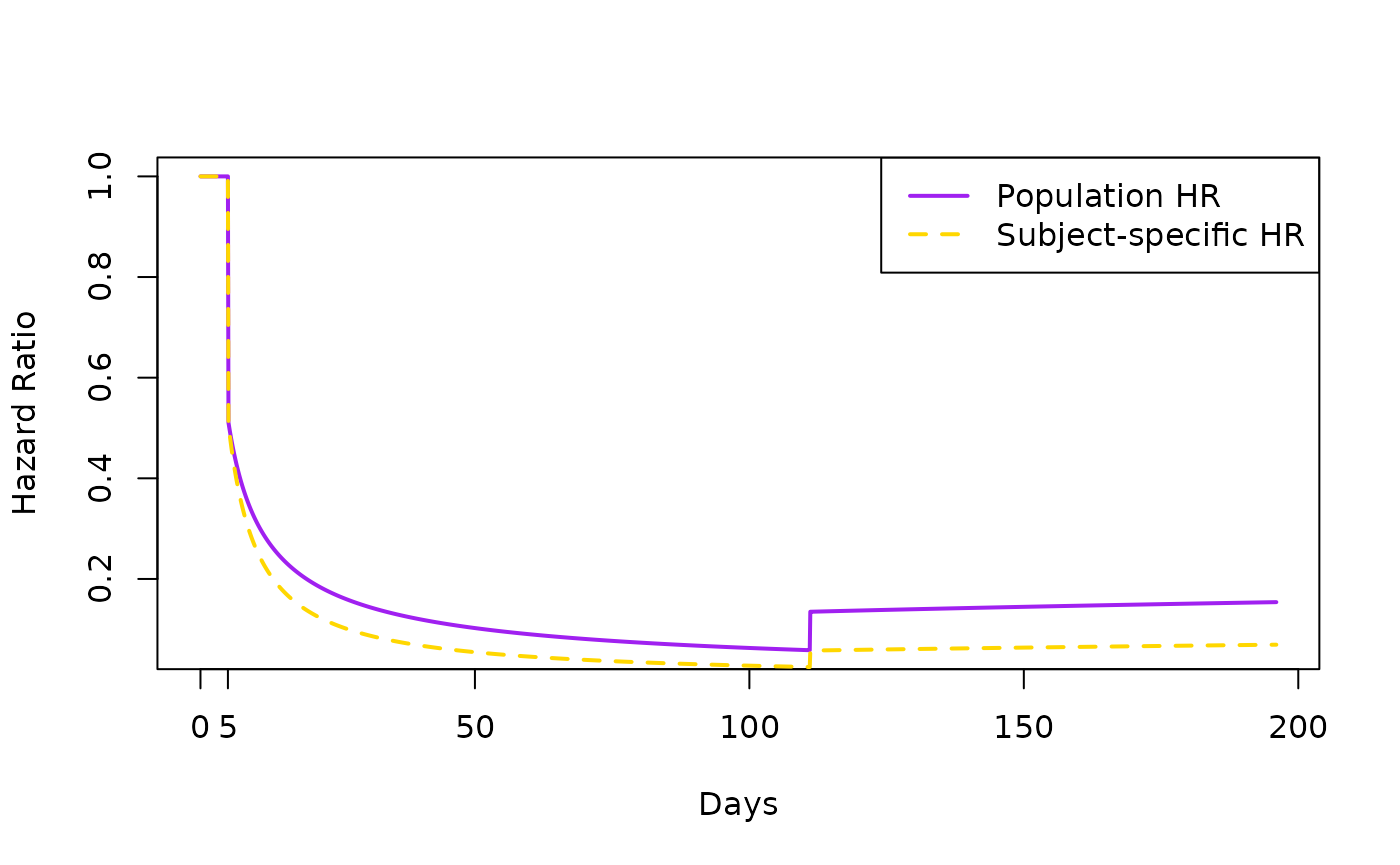
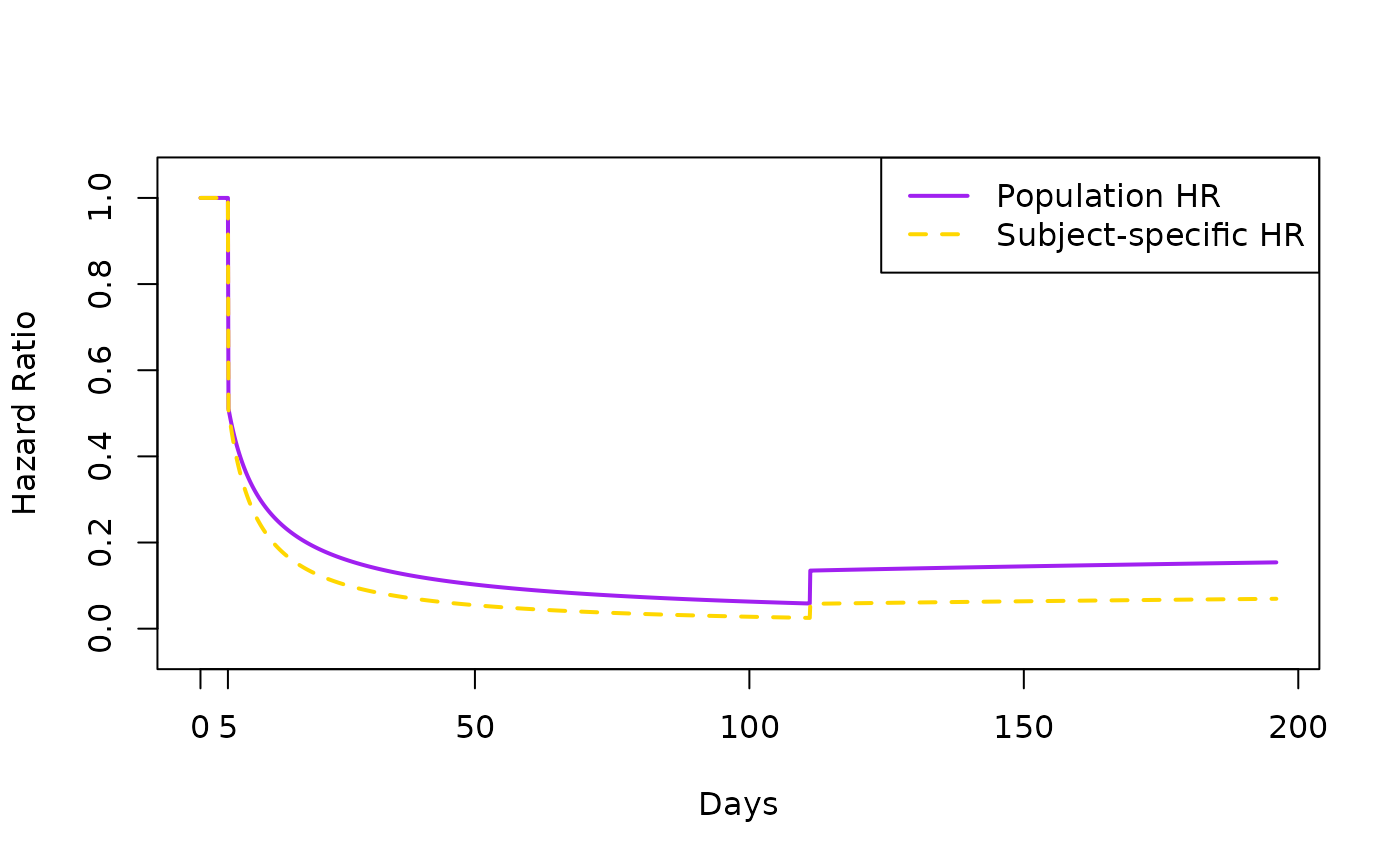
Deploying to gh-pages from @ swihart/mpw@d77f3eb011d26254b463e0a16dab83c2ee363b18 🚀

diff --git a/articles/alpha.html b/articles/alpha.html
@@ -83,6 +83,17 @@ Positive Stable Frailty density:</p>
 <ul>
 <li><math display="inline" xmlns="http://www.w3.org/1998/Math/MathML"><semantics><mrow><msub><mi>f</mi><msub><mi>u</mi><mi>i</mi></msub></msub><mrow><mo stretchy="true" form="prefix">(</mo><msub><mi>u</mi><mi>i</mi></msub><mo stretchy="false" form="prefix">|</mo><mi>α</mi><mo stretchy="true" form="postfix">)</mo></mrow><mo>=</mo><mo>−</mo><mfrac><mn>1</mn><mrow><mi>π</mi><msub><mi>u</mi><mi>i</mi></msub></mrow></mfrac><msubsup><mo>∑</mo><mrow><mi>k</mi><mo>=</mo><mn>1</mn></mrow><mi>∞</mi></msubsup><mfrac><mrow><mi>Γ</mi><mrow><mo stretchy="true" form="prefix">(</mo><mi>k</mi><mi>α</mi><mo>+</mo><mn>1</mn><mo stretchy="true" form="postfix">)</mo></mrow></mrow><mrow><mi>k</mi><mi>!</mi></mrow></mfrac><msup><mrow><mo stretchy="true" form="prefix">(</mo><mo>−</mo><msubsup><mi>u</mi><mi>i</mi><mrow><mo>−</mo><mi>α</mi></mrow></msubsup><mo stretchy="true" form="postfix">)</mo></mrow><mi>k</mi></msup><mo>sin</mo><mrow><mo stretchy="true" form="prefix">(</mo><mi>α</mi><mi>k</mi><mi>π</mi><mo stretchy="true" form="postfix">)</mo></mrow></mrow><annotation encoding="application/x-tex">f_{u_{i}}(u_{i} | \alpha) =  - \frac{1}{\pi u_{i}}  \sum_{k=1}^\infty \frac{\Gamma(k \alpha +1)}{k!}  (-u_{i}^{-\alpha})^k \sin{(\alpha k \pi)}</annotation></semantics></math></li>
 </ul>
+<p>We analyze data that looks similar to that of Figure 1 Thomas et al
+(2021):</p>
+<blockquote>
+<p>Thomas, S. J., E. D. Moreira Jr, N. Kitchin, J. Absalon, A. Gurtman,
+S. Lockhart, J. L. Perez, G. P ́erez Marc, F. P. Polack, C. Zerbini, et
+al. (2021). Safety and efficacy of the bnt162b2 mrna covid-19 vaccine
+through 6 months. New England Journal of Medicine 385(19),
+1761–1773.</p>
+</blockquote>
+<p>We plot the data points, color-code the groups, and just connect the
+dots with interpolated, dashed lines.</p>
 <div class="sourceCode" id="cb1"><pre class="downlit sourceCode r">
 <code class="sourceCode R"><span><span class="kw"><a href="https://rdrr.io/r/base/library.html" class="external-link">library</a></span><span class="op">(</span><span class="va"><a href="https://swihart.github.io/mpw/">mpw</a></span><span class="op">)</span></span>
 <span><span class="co">## This data resembles that in Thomas et al</span></span>
@@ -92,9 +103,9 @@ Positive Stable Frailty density:</p>
 <span></span>
 <span><span class="co">## plot the data points, </span></span>
 <span><span class="co">## with interpolated lines</span></span>
-<span><span class="fu"><a href="https://rdrr.io/r/graphics/plot.default.html" class="external-link">plot</a></span>  <span class="op">(</span><span class="va">time</span>, <span class="va">F0</span>, type<span class="op">=</span><span class="st">"l"</span>, col<span class="op">=</span><span class="st">"black"</span>, xlab<span class="op">=</span><span class="st">"Days"</span>, ylab<span class="op">=</span><span class="st">"CDF"</span><span class="op">)</span></span>
+<span><span class="fu"><a href="https://rdrr.io/r/graphics/plot.default.html" class="external-link">plot</a></span>  <span class="op">(</span><span class="va">time</span>, <span class="va">F0</span>, type<span class="op">=</span><span class="st">"l"</span>, col<span class="op">=</span><span class="st">"black"</span>, xlab<span class="op">=</span><span class="st">"Days"</span>, ylab<span class="op">=</span><span class="st">"CDF"</span>, lty<span class="op">=</span><span class="fl">2</span><span class="op">)</span></span>
 <span><span class="fu"><a href="https://rdrr.io/r/graphics/points.html" class="external-link">points</a></span><span class="op">(</span><span class="va">time</span>, <span class="va">F0</span>, col<span class="op">=</span><span class="st">"black"</span>, pch<span class="op">=</span><span class="fl">15</span><span class="op">)</span></span>
-<span><span class="fu"><a href="https://rdrr.io/r/graphics/lines.html" class="external-link">lines</a></span> <span class="op">(</span><span class="va">time</span>, <span class="va">F1</span>, col<span class="op">=</span><span class="st">"blue"</span><span class="op">)</span></span>
+<span><span class="fu"><a href="https://rdrr.io/r/graphics/lines.html" class="external-link">lines</a></span> <span class="op">(</span><span class="va">time</span>, <span class="va">F1</span>, col<span class="op">=</span><span class="st">"blue"</span>, lty<span class="op">=</span><span class="fl">2</span><span class="op">)</span></span>
 <span><span class="fu"><a href="https://rdrr.io/r/graphics/points.html" class="external-link">points</a></span><span class="op">(</span><span class="va">time</span>, <span class="va">F1</span>, col<span class="op">=</span><span class="st">"blue"</span>, pch<span class="op">=</span><span class="fl">16</span><span class="op">)</span></span>
 <span><span class="fu"><a href="https://rdrr.io/r/graphics/legend.html" class="external-link">legend</a></span><span class="op">(</span><span class="st">"topleft"</span>, <span class="fu"><a href="https://rdrr.io/r/base/c.html" class="external-link">c</a></span><span class="op">(</span><span class="st">"Placebo"</span>, <span class="st">"Vaccine"</span><span class="op">)</span>,</span>
 <span>       col<span class="op">=</span><span class="fu"><a href="https://rdrr.io/r/base/c.html" class="external-link">c</a></span><span class="op">(</span><span class="st">"black"</span>,<span class="st">"blue"</span><span class="op">)</span>,</span>
@@ -103,10 +114,20 @@ Positive Stable Frailty density:</p>
 <span><span class="op">)</span></span></code></pre></div>
 <p><img src="alpha_files/figure-html/data-1.png" width="700"></p>
 <p>Set the <code>h_parm</code> and <code>frailty</code> distribution for
-this example.</p>
+this example. Beware that H_PARM has different bounds depending on what
+value of FRAILTY is selected.</p>
 <div class="sourceCode" id="cb2"><pre class="downlit sourceCode r">
 <code class="sourceCode R"><span><span class="va">H_PARM</span> <span class="op">&lt;-</span> <span class="fl">0.72</span></span>
 <span><span class="va">FRAILTY</span> <span class="op">&lt;-</span> <span class="st">"PS"</span></span></code></pre></div>
+<p>We first consider two knots which will allow us to model each curve
+with three pieces. We set the first piece of each group to be equal so
+we can get an HR of 1 (more in subsequent sections). This first piece
+can be specified to be over a short time range where both groups would
+be considered equal due to the <em>ramp-up time</em> of a vaccine. Below
+we set the ramp-up time to end 5 days after first dose, the second piece
+to go from then to 90 days after second dose, and the third piece from
+then until the end of the study. We do this by specifying two knot
+values, as below:</p>
 <div class="section level3">
 <h3 id="two-knots">Two knots<a class="anchor" aria-label="anchor" href="#two-knots"></a>
 </h3>
@@ -209,7 +230,11 @@ same for both groups (i.e. <em>ramp-up time</em>).</p>
 do a quick check of the fit. We put vertical dashed lines in the plot to
 denote knot placement.</p>
 <div class="sourceCode" id="cb6"><pre class="downlit sourceCode r">
-<code class="sourceCode R"><span><span class="va">time.dist</span> <span class="op">&lt;-</span> <span class="fu"><a href="https://rdrr.io/r/base/seq.html" class="external-link">seq</a></span><span class="op">(</span><span class="fu"><a href="https://rdrr.io/r/base/Extremes.html" class="external-link">min</a></span><span class="op">(</span><span class="fu"><a href="https://rdrr.io/r/base/c.html" class="external-link">c</a></span><span class="op">(</span><span class="va">time</span>, <span class="va">tvec.in</span><span class="op">)</span><span class="op">)</span>, <span class="fu"><a href="https://rdrr.io/r/base/Extremes.html" class="external-link">max</a></span><span class="op">(</span><span class="fu"><a href="https://rdrr.io/r/base/c.html" class="external-link">c</a></span><span class="op">(</span><span class="va">time</span>, <span class="va">tvec.in</span><span class="op">)</span><span class="op">)</span>, <span class="fl">0.1</span><span class="op">)</span></span>
+<code class="sourceCode R"><span><span class="va">time.dist</span> <span class="op">&lt;-</span> <span class="fu"><a href="https://rdrr.io/r/base/sort.html" class="external-link">sort</a></span><span class="op">(</span><span class="fu"><a href="https://rdrr.io/r/base/c.html" class="external-link">c</a></span><span class="op">(</span><span class="fu"><a href="https://rdrr.io/r/base/seq.html" class="external-link">seq</a></span><span class="op">(</span><span class="fu"><a href="https://rdrr.io/r/base/Extremes.html" class="external-link">min</a></span><span class="op">(</span><span class="fu"><a href="https://rdrr.io/r/base/c.html" class="external-link">c</a></span><span class="op">(</span><span class="va">time</span>, <span class="va">tvec.in</span><span class="op">)</span><span class="op">)</span>, </span>
+<span>                        <span class="fu"><a href="https://rdrr.io/r/base/Extremes.html" class="external-link">max</a></span><span class="op">(</span><span class="fu"><a href="https://rdrr.io/r/base/c.html" class="external-link">c</a></span><span class="op">(</span><span class="va">time</span>, <span class="va">tvec.in</span><span class="op">)</span><span class="op">)</span>, <span class="fl">0.1</span><span class="op">)</span>,</span>
+<span>                    <span class="va">tvec.in</span><span class="op">)</span></span>
+<span>                  <span class="op">)</span></span>
+<span></span>
 <span><span class="va">plac.dist</span> <span class="op">&lt;-</span> <span class="fu"><a href="../reference/popavg_dist.html">popavg_dist</a></span><span class="op">(</span>      x <span class="op">=</span> <span class="va">time.dist</span>, </span>
 <span>                           knots <span class="op">=</span> <span class="va">tvec.in</span>,</span>
 <span>                           logk0 <span class="op">=</span> <span class="va">logk0p</span>,</span>
@@ -238,7 +263,9 @@ denote knot placement.</p>
 <span><span class="op">)</span></span>
 <span><span class="fu"><a href="https://rdrr.io/r/graphics/axis.html" class="external-link">axis</a></span><span class="op">(</span><span class="fl">1</span>, at<span class="op">=</span><span class="fu"><a href="https://rdrr.io/r/base/c.html" class="external-link">c</a></span><span class="op">(</span><span class="va">tvec.in</span><span class="op">[</span><span class="fl">1</span><span class="op">]</span><span class="op">)</span><span class="op">)</span></span></code></pre></div>
 <p><img src="alpha_files/figure-html/unnamed-chunk-4-1.png" width="700"></p>
-<p>Note from Days 0 to 5 the curves are the same.</p>
+<p>Note from Days 0 to 5 the curves are the same. Over this range the HR
+will be 1. Otherwise the fit looks okay – some points are below their
+line and some are above.</p>
 </div>
 <div class="section level4">
 <h4 id="plot-population-avg-hr">Plot population avg HR<a class="anchor" aria-label="anchor" href="#plot-population-avg-hr"></a>
@@ -269,7 +296,7 @@ adjust the time input so that the first element is just above 0.</p>
 <span>                         frailty <span class="op">=</span> <span class="va">FRAILTY</span><span class="op">)</span></span>
 <span></span>
 <span><span class="fu"><a href="https://rdrr.io/r/graphics/plot.default.html" class="external-link">plot</a></span>  <span class="op">(</span><span class="va">time.haz</span>, <span class="va">vacc.haz</span><span class="op">/</span><span class="va">plac.haz</span>, type<span class="op">=</span><span class="st">"l"</span>, col<span class="op">=</span><span class="st">"purple"</span>, xlab<span class="op">=</span><span class="st">"Days"</span>,</span>
-<span>       ylab<span class="op">=</span><span class="st">"Hazard Ratio"</span>, lwd<span class="op">=</span><span class="fl">2</span><span class="op">)</span></span>
+<span>       ylab<span class="op">=</span><span class="st">"Hazard Ratio"</span>, lwd<span class="op">=</span><span class="fl">2</span>, ylim<span class="op">=</span><span class="fu"><a href="https://rdrr.io/r/base/c.html" class="external-link">c</a></span><span class="op">(</span><span class="op">-</span><span class="fl">0.05</span>,<span class="fl">1.05</span><span class="op">)</span><span class="op">)</span></span>
 <span></span>
 <span><span class="fu"><a href="https://rdrr.io/r/graphics/abline.html" class="external-link">abline</a></span><span class="op">(</span>v<span class="op">=</span><span class="va">tvec.in</span>, lty<span class="op">=</span><span class="fl">2</span>, col<span class="op">=</span><span class="st">"grey"</span><span class="op">)</span></span>
 <span></span>
@@ -302,7 +329,7 @@ vaccine group and dividing them gives the subject-specific hazard ratio
 <span>                       delta_vec <span class="op">=</span> <span class="va">delta_vec_v</span><span class="op">)</span></span>
 <span></span>
 <span><span class="fu"><a href="https://rdrr.io/r/graphics/plot.default.html" class="external-link">plot</a></span>  <span class="op">(</span><span class="va">time.haz</span>, <span class="va">vacc.haz</span><span class="op">/</span><span class="va">plac.haz</span>, type<span class="op">=</span><span class="st">"l"</span>, col<span class="op">=</span><span class="st">"purple"</span>, xlab<span class="op">=</span><span class="st">"Days"</span>,</span>
-<span>       ylab<span class="op">=</span><span class="st">"Hazard Ratio"</span>, lwd<span class="op">=</span><span class="fl">2</span><span class="op">)</span></span>
+<span>       ylab<span class="op">=</span><span class="st">"Hazard Ratio"</span>, lwd<span class="op">=</span><span class="fl">2</span>, ylim<span class="op">=</span><span class="fu"><a href="https://rdrr.io/r/base/c.html" class="external-link">c</a></span><span class="op">(</span><span class="op">-</span><span class="fl">0.05</span>,<span class="fl">1.05</span><span class="op">)</span><span class="op">)</span></span>
 <span></span>
 <span><span class="fu"><a href="https://rdrr.io/r/graphics/axis.html" class="external-link">axis</a></span><span class="op">(</span><span class="fl">1</span>, at<span class="op">=</span><span class="fu"><a href="https://rdrr.io/r/base/c.html" class="external-link">c</a></span><span class="op">(</span><span class="va">tvec.in</span><span class="op">[</span><span class="fl">1</span><span class="op">]</span><span class="op">)</span><span class="op">)</span></span>
 <span></span>
@@ -430,7 +457,11 @@ same for both groups (i.e. <em>ramp-up time</em>).</p>
 do a quick check of the fit. We put vertical dashed lines in the plot to
 denote knot placement.</p>
 <div class="sourceCode" id="cb12"><pre class="downlit sourceCode r">
-<code class="sourceCode R"><span><span class="va">time.dist</span> <span class="op">&lt;-</span> <span class="fu"><a href="https://rdrr.io/r/base/seq.html" class="external-link">seq</a></span><span class="op">(</span><span class="fu"><a href="https://rdrr.io/r/base/Extremes.html" class="external-link">min</a></span><span class="op">(</span><span class="fu"><a href="https://rdrr.io/r/base/c.html" class="external-link">c</a></span><span class="op">(</span><span class="va">time</span>, <span class="va">tvec.in</span><span class="op">)</span><span class="op">)</span>, <span class="fu"><a href="https://rdrr.io/r/base/Extremes.html" class="external-link">max</a></span><span class="op">(</span><span class="fu"><a href="https://rdrr.io/r/base/c.html" class="external-link">c</a></span><span class="op">(</span><span class="va">time</span>, <span class="va">tvec.in</span><span class="op">)</span><span class="op">)</span>, <span class="fl">0.1</span><span class="op">)</span></span>
+<code class="sourceCode R"><span><span class="va">time.dist</span> <span class="op">&lt;-</span> <span class="fu"><a href="https://rdrr.io/r/base/sort.html" class="external-link">sort</a></span><span class="op">(</span><span class="fu"><a href="https://rdrr.io/r/base/c.html" class="external-link">c</a></span><span class="op">(</span><span class="fu"><a href="https://rdrr.io/r/base/seq.html" class="external-link">seq</a></span><span class="op">(</span><span class="fu"><a href="https://rdrr.io/r/base/Extremes.html" class="external-link">min</a></span><span class="op">(</span><span class="fu"><a href="https://rdrr.io/r/base/c.html" class="external-link">c</a></span><span class="op">(</span><span class="va">time</span>, <span class="va">tvec.in</span><span class="op">)</span><span class="op">)</span>, </span>
+<span>                        <span class="fu"><a href="https://rdrr.io/r/base/Extremes.html" class="external-link">max</a></span><span class="op">(</span><span class="fu"><a href="https://rdrr.io/r/base/c.html" class="external-link">c</a></span><span class="op">(</span><span class="va">time</span>, <span class="va">tvec.in</span><span class="op">)</span><span class="op">)</span>, <span class="fl">0.1</span><span class="op">)</span>,</span>
+<span>                    <span class="va">tvec.in</span><span class="op">)</span></span>
+<span>                  <span class="op">)</span></span>
+<span></span>
 <span><span class="va">plac.dist</span> <span class="op">&lt;-</span> <span class="fu"><a href="../reference/popavg_dist.html">popavg_dist</a></span><span class="op">(</span>      x <span class="op">=</span> <span class="va">time.dist</span>, </span>
 <span>                           knots <span class="op">=</span> <span class="va">tvec.in</span>,</span>
 <span>                           logk0 <span class="op">=</span> <span class="va">logk0p</span>,</span>
@@ -459,7 +490,8 @@ denote knot placement.</p>
 <span><span class="op">)</span></span>
 <span><span class="fu"><a href="https://rdrr.io/r/graphics/axis.html" class="external-link">axis</a></span><span class="op">(</span><span class="fl">1</span>, at<span class="op">=</span><span class="fu"><a href="https://rdrr.io/r/base/c.html" class="external-link">c</a></span><span class="op">(</span><span class="va">tvec.in</span><span class="op">[</span><span class="fl">1</span><span class="op">]</span><span class="op">)</span><span class="op">)</span></span></code></pre></div>
 <p><img src="alpha_files/figure-html/unnamed-chunk-9-1.png" width="700"></p>
-<p>Note from Days 0 to 5 the curves are the same.</p>
+<p>Note from Days 0 to 5 the curves are the same. Comparing with the two
+knot example, the fit is much improved.</p>
 </div>
 <div class="section level4">
 <h4 id="plot-population-avg-hr-1">Plot population avg HR<a class="anchor" aria-label="anchor" href="#plot-population-avg-hr-1"></a>
@@ -489,7 +521,7 @@ adjust the time input so that the first element is just above 0.</p>
 <span>                          h_parm <span class="op">=</span> <span class="va">H_PARM</span>,</span>
 <span>                         frailty <span class="op">=</span> <span class="va">FRAILTY</span><span class="op">)</span></span>
 <span></span>
-<span><span class="fu"><a href="https://rdrr.io/r/graphics/plot.default.html" class="external-link">plot</a></span>  <span class="op">(</span><span class="va">time.haz</span>, <span class="va">vacc.haz</span><span class="op">/</span><span class="va">plac.haz</span>, type<span class="op">=</span><span class="st">"l"</span>, col<span class="op">=</span><span class="st">"purple"</span>, xlab<span class="op">=</span><span class="st">"Days"</span>, ylab<span class="op">=</span><span class="st">"Hazard Ratio"</span>, lwd<span class="op">=</span><span class="fl">2</span><span class="op">)</span></span>
+<span><span class="fu"><a href="https://rdrr.io/r/graphics/plot.default.html" class="external-link">plot</a></span>  <span class="op">(</span><span class="va">time.haz</span>, <span class="va">vacc.haz</span><span class="op">/</span><span class="va">plac.haz</span>, type<span class="op">=</span><span class="st">"l"</span>, col<span class="op">=</span><span class="st">"purple"</span>, xlab<span class="op">=</span><span class="st">"Days"</span>, ylab<span class="op">=</span><span class="st">"Hazard Ratio"</span>, lwd<span class="op">=</span><span class="fl">2</span>, ylim<span class="op">=</span><span class="fu"><a href="https://rdrr.io/r/base/c.html" class="external-link">c</a></span><span class="op">(</span><span class="op">-</span><span class="fl">0.05</span>,<span class="fl">1.05</span><span class="op">)</span><span class="op">)</span></span>
 <span></span>
 <span><span class="fu"><a href="https://rdrr.io/r/graphics/abline.html" class="external-link">abline</a></span><span class="op">(</span>v<span class="op">=</span><span class="va">tvec.in</span>, lty<span class="op">=</span><span class="fl">2</span>, col<span class="op">=</span><span class="st">"grey"</span><span class="op">)</span></span>
 <span></span>
@@ -522,7 +554,7 @@ vaccine group and dividing them gives the subject-specific hazard ratio
 <span>                       delta_vec <span class="op">=</span> <span class="va">delta_vec_v</span><span class="op">)</span></span>
 <span></span>
 <span><span class="fu"><a href="https://rdrr.io/r/graphics/plot.default.html" class="external-link">plot</a></span>  <span class="op">(</span><span class="va">time.haz</span>, <span class="va">vacc.haz</span><span class="op">/</span><span class="va">plac.haz</span>, type<span class="op">=</span><span class="st">"l"</span>, col<span class="op">=</span><span class="st">"purple"</span>, xlab<span class="op">=</span><span class="st">"Days"</span>,</span>
-<span>       ylab<span class="op">=</span><span class="st">"Hazard Ratio"</span>, lwd<span class="op">=</span><span class="fl">2</span><span class="op">)</span></span>
+<span>       ylab<span class="op">=</span><span class="st">"Hazard Ratio"</span>, lwd<span class="op">=</span><span class="fl">2</span>, ylim<span class="op">=</span><span class="fu"><a href="https://rdrr.io/r/base/c.html" class="external-link">c</a></span><span class="op">(</span><span class="op">-</span><span class="fl">0.05</span>,<span class="fl">1.05</span><span class="op">)</span><span class="op">)</span></span>
 <span></span>
 <span><span class="fu"><a href="https://rdrr.io/r/graphics/axis.html" class="external-link">axis</a></span><span class="op">(</span><span class="fl">1</span>, at<span class="op">=</span><span class="fu"><a href="https://rdrr.io/r/base/c.html" class="external-link">c</a></span><span class="op">(</span><span class="va">tvec.in</span><span class="op">[</span><span class="fl">1</span><span class="op">]</span><span class="op">)</span><span class="op">)</span></span>
 <span></span>
